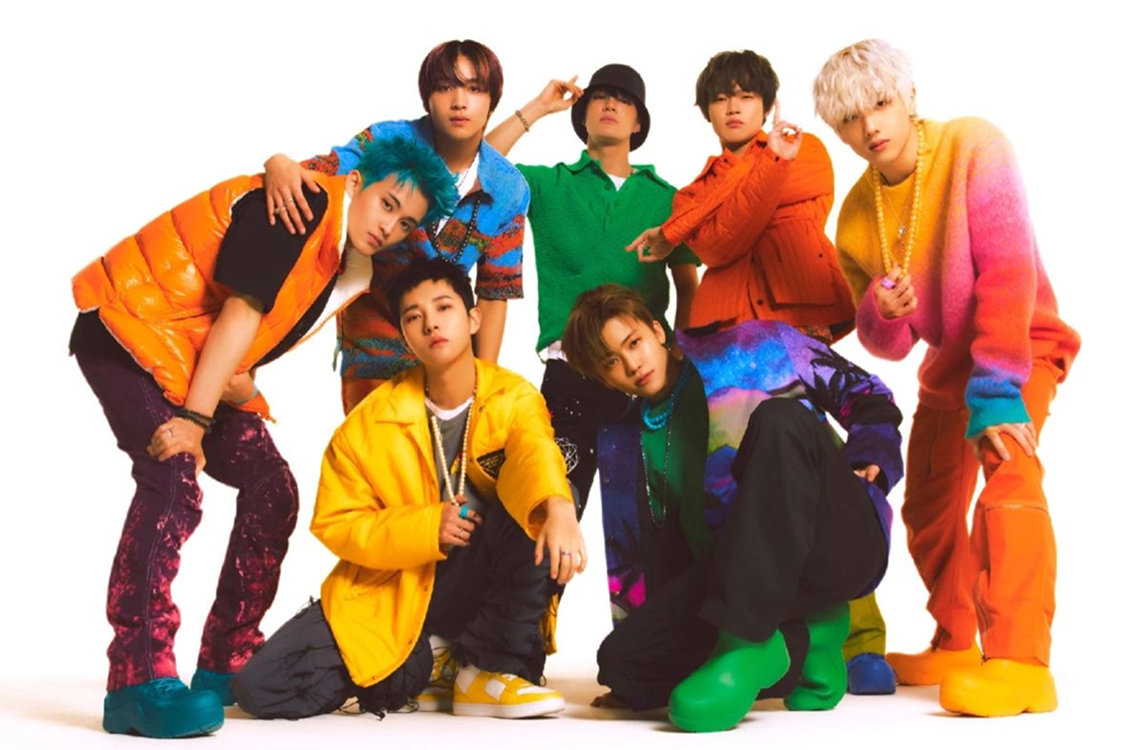
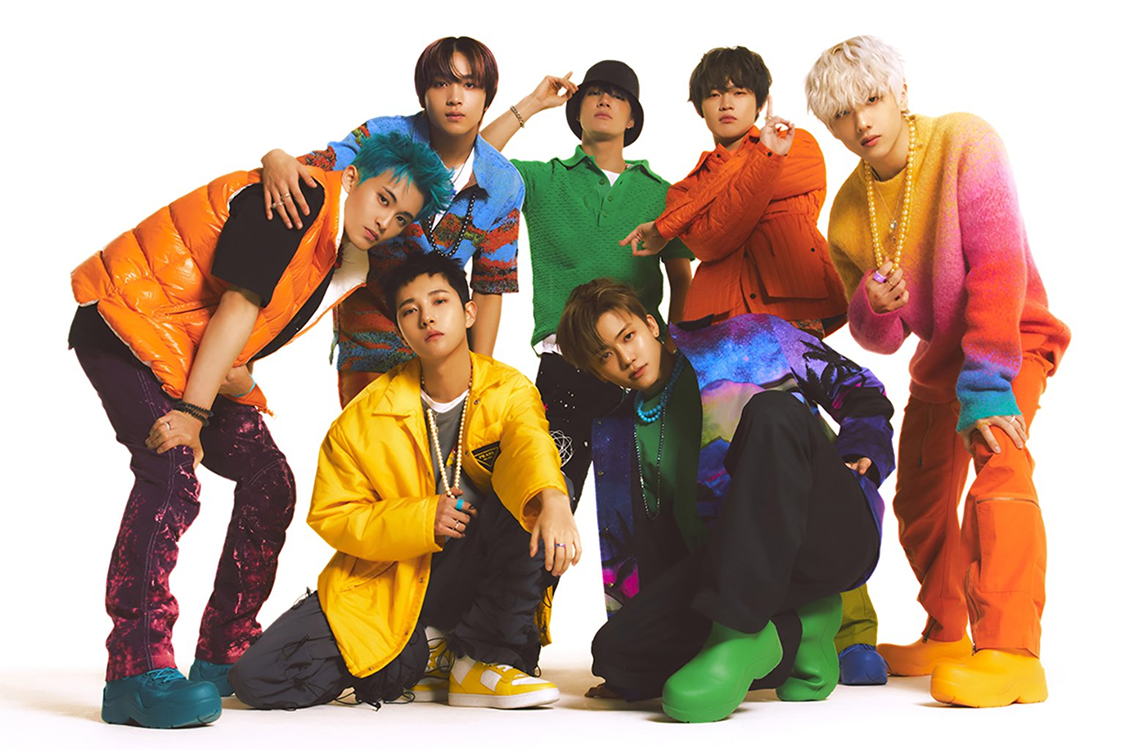
hero interactivity light mode

diff --git a/src/components/LMHero.jsx b/src/components/LMHero.jsx
@@ -1,15 +1,94 @@
 import React from "react";
 import lm_Hero from "../assets/images/lightMode/lm_hero.png";
+import lm_jisung from "../assets/images/lightMode/lm_jisungHero.png";
+import lm_chenle from "../assets/images/lightMode/lm_chenleHero.png";
+import lm_jaemin from "../assets/images/lightMode/lm_jaeminHero.png";
+import lm_jeno from "../assets/images/lightMode/lm_jenoHero.png";
+import lm_haechan from "../assets/images/lightMode/lm_haechanHero.png";
+import lm_renjun from "../assets/images/lightMode/lm_renjunHero.png";
+import lm_mark from "../assets/images/lightMode/lm_markHero.png";
 
 const LMHero = () => {
   return (
-    <div className="flex justify-center">
-      <img
-        src={lm_Hero}
-        alt="group"
-        className="h-[320px] sm:h-[400px] md:h-[475px] lg:h-[550px] xl:h-[750px]"
-      />
-    </div>
+    <>
+      <div className="flex justify-center">
+        <img
+          src={lm_Hero}
+          alt="group"
+          className="sm:absolute z-0 h-[320px] sm:h-[400px] md:h-[475px] lg:h-[550px] xl:h-[750px]"
+        />
+        <img
+          src={lm_jisung}
+          alt="jisung"
+          className="z-2 relative hover:cursor-pointer
+        hidden
+        sm:block sm:h-[400px] sm:left-[745px] sm:hover:scale-[1.1]
+        md:h-[475px] md:left-[885px]
+        lg:h-[550px] lg:left-[1030px]
+        xl:h-[750px] xl:left-[1394px]  xl:hover:scale-[1.05]"
+        />
+        <img
+          src={lm_chenle}
+          alt="chenle"
+          className="z-1 relative hover:cursor-pointer
+        hidden
+        sm:block sm:h-[400px] sm:left-[475px] sm:hover:scale-[1.1]
+        md:h-[475px] md:left-[565px]
+        lg:h-[550px] lg:left-[660px]
+        xl:h-[750px] xl:left-[890px]  xl:hover:scale-[1.05]"
+        />
+        <img
+          src={lm_jaemin}
+          alt="jaemin"
+          className="z-2 relative hover:cursor-pointer
+        hidden
+        sm:block sm:h-[270px] sm:left-[274px] sm:top-[135px] sm:hover:scale-[1.1]
+        md:h-[320px] md:left-[325px] md:top-[160px]
+        lg:h-[390px] lg:left-[380px] lg:top-[180px]
+        xl:h-[500px] xl:left-[520px] xl:top-[260px]  xl:hover:scale-[1.05]"
+        />
+        <img
+          src={lm_jeno}
+          alt="jaemin"
+          className="z-1 relative hover:cursor-pointer
+        hidden
+        sm:block sm:h-[400px] sm:left-[35px] sm:hover:scale-[1.1]
+        md:h-[475px] md:left-[42px]
+        lg:h-[550px] lg:left-[40px]
+        xl:h-[750px] xl:left-[68px]  xl:hover:scale-[1.05]"
+        />
+        <img
+          src={lm_haechan}
+          alt="haechan"
+          className="z-2 relative hover:cursor-pointer
+        hidden
+        sm:block sm:h-[400px] sm:left-[-215px] sm:hover:scale-[1.1]
+        md:h-[475px] md:left-[-255px]
+        lg:h-[550px] lg:left-[-303px]
+        xl:h-[750px] xl:left-[-398px]  xl:hover:scale-[1.05]"
+        />
+        <img
+          src={lm_mark}
+          alt="mark"
+          className="z-2 relative hover:cursor-pointer
+        hidden
+        sm:block sm:h-[400px] sm:left-[-471px] sm:hover:scale-[1.1]
+        md:h-[475px] md:left-[-557px]
+        lg:h-[550px] lg:left-[-655px]
+        xl:h-[750px] xl:left-[-878px]  xl:hover:scale-[1.05]"
+        />
+        <img
+          src={lm_renjun}
+          alt="renjun"
+          className="z-2 relative hover:cursor-pointer
+        hidden
+        sm:block sm:h-[290px] sm:top-[115px] sm:left-[-610px] sm:hover:scale-[1.1]
+        md:h-[350px] md:top-[130px] md:left-[-728px]
+        lg:h-[400px] lg:top-[155px] lg:left-[-850px]
+        xl:h-[550px] xl:top-[205px] xl:left-[-1146px]  xl:hover:scale-[1.05]"
+        />
+      </div>
+    </>
   );
 };
 

diff --git a/src/components/Member.jsx b/src/components/Member.jsx
@@ -6,7 +6,7 @@ const Member = (props) => {
       <div
         className="grid grid-cols-6 grid-rows-6
       lg:hidden
-      w-[480px] m-auto"
+      w-full sm:w-[440px] m-auto"
       >
         <h2
           className="col-start-1 col-end-7 row-start-1 row-end-3 justify-self-end uppercase z-2
@@ -36,7 +36,7 @@ const Member = (props) => {
           <div className={props.mobileT}></div>
         </div>
       </div>
-      <div className="w-[480px] m-auto lg:hidden">
+      <div className="w-full sm:w-[440px] m-auto lg:hidden">
         <p className="w-[90%] m-auto font-(family-name:--font-text) mb-[1.5em]">
           Lorem ipsum dolor sit amet consectetur adipiscing elit. Quisque
           faucibus ex sapien vitae pellentesque sem placerat. In id cursus mi
